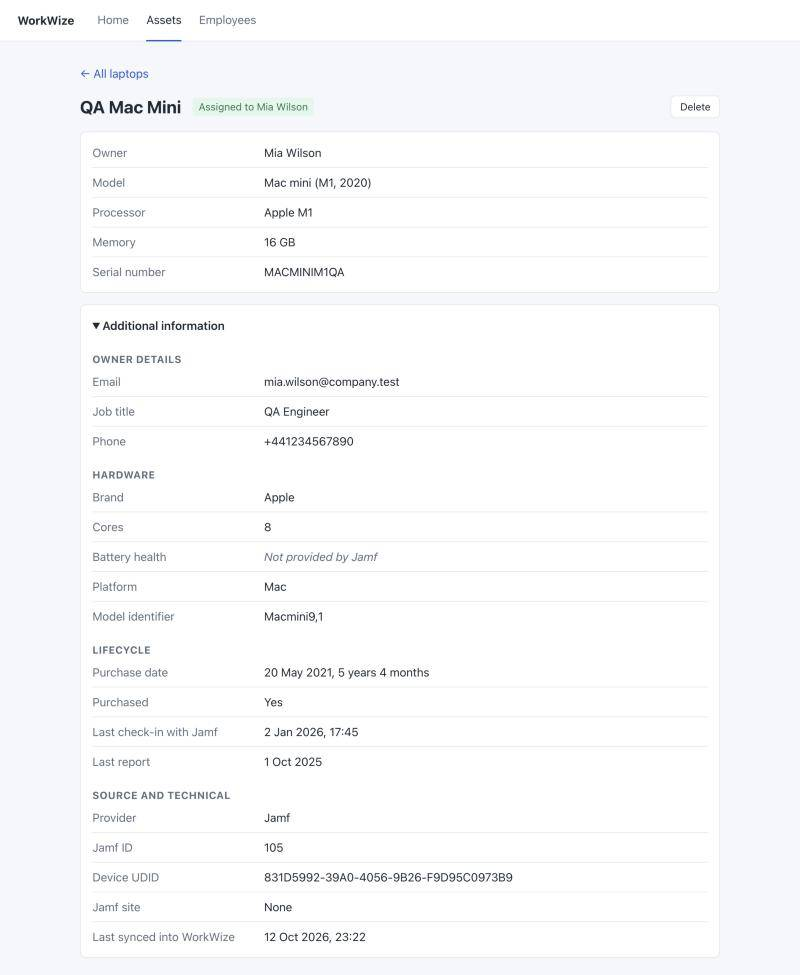
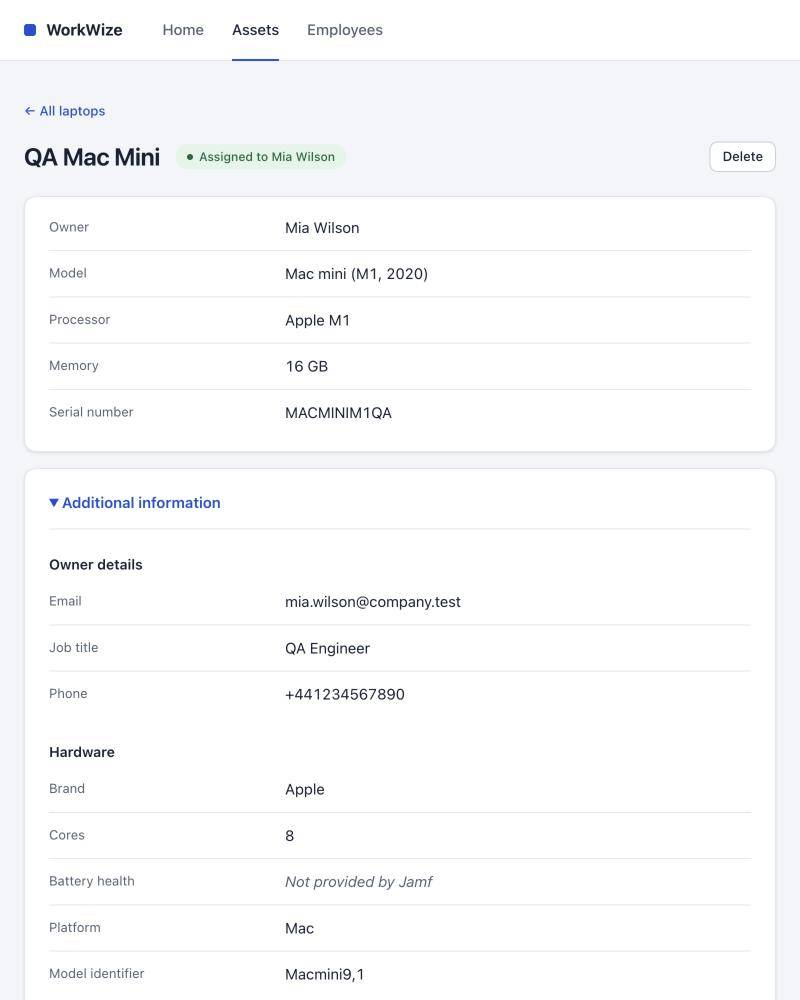
Redesign 6: retaken pictures, visual design in the decisions, redesign tests in TEST-LOG, numbers matched

diff --git a/docs/TEST-LOG.md b/docs/TEST-LOG.md
@@ -4,7 +4,7 @@
 
 ## In one minute
 
-- **What we tested:** the 32 agreed scenarios (T1–T32), 19 kinds of odd but realistic Jamf data, sizes from 1,000 to 25,000 laptops, and 6 kinds of failure (database or backend restarting mid-sync, database down, backend frozen or stopped), plus real out-of-memory crashes. Today: 133 backend and 101 website tests, all passing; 71 deliberate breaks, all caught.
+- **What we tested:** the 32 agreed scenarios (T1–T32), 19 kinds of odd but realistic Jamf data, sizes from 1,000 to 25,000 laptops, and 6 kinds of failure (database or backend restarting mid-sync, database down, backend frozen or stopped), plus real out-of-memory crashes. Today: 133 backend and 112 website tests, all passing; 77 deliberate breaks, all caught.
 - **What we found:** 16 problems (F1–F16; F16 in the final audit). The worst: one over-long name stopped every sync for everyone (F1); after any crash the app said "A sync is already running" for 5 minutes (F10); raw database errors reached the screen (F12). Data was never half-saved in any test, including real crashes.
 - **What was fixed:** 14 of the 16, each decided by Muhammad, each with a test, a deliberate break, and the original failing case re-run (before vs after in "Fixes: before and after"; live re-runs of all of them in "Final audit"). One catch while planning the fixes: the database treated "jose@…" and "josé@…" as the same person, which would have merged two people's laptops.
 - **What stays a limitation, and why:** F14 (the sync message lists every laptop after a very large change) and F15 (the sync runs out of memory above about 12,000 laptops; 5,000 sync in about 3 seconds). Both only matter far above a mid-size customer, and F15's fix belongs with a live Jamf connection. Also not built: paging and search in the lists (5,000 laptops load in about a second, but the page is about 380 screens long). Details in [IDEAS-AND-LIMITATIONS.md](IDEAS-AND-LIMITATIONS.md).
@@ -17,7 +17,7 @@ With the app running (`docker compose up`):
 
 ```bash
 docker compose exec backend php artisan test   # backend: 133 tests
-docker compose exec frontend npm test          # website: 101 tests
+docker compose exec frontend npm test          # website: 112 tests
 ```
 
 - Backend tests run against MySQL, in their own database (`workwize_test`), so they never touch the app's data. A safety check stops them if they're ever pointed at another database.
@@ -26,7 +26,7 @@ docker compose exec frontend npm test          # website: 101 tests
 
 ## How we check that a test can fail
 
-A test that has never failed proves little. For every rule we add, we switch the rule off on purpose ("deliberate break"), run the tests, confirm the right test fails, and put the rule back. So far 71 breaks, all caught (16 of them for the fixes after testing and the final audit, listed in "Fixes: before and after"). Examples: the "updated" count including our own timestamps, the delete warning for a person with laptops replaced by the short one, memory divided by 1000 instead of 1024, a lighter grey that fails the contrast check.
+A test that has never failed proves little. For every rule we add, we switch the rule off on purpose ("deliberate break"), run the tests, confirm the right test fails, and put the rule back. So far 77 breaks, all caught (16 of them for the fixes after testing and the final audit, listed in "Fixes: before and after"; 6 for the visual redesign, listed in "Visual redesign"). Examples: the "updated" count including our own timestamps, the delete warning for a person with laptops replaced by the short one, memory divided by 1000 instead of 1024, a lighter grey that fails the contrast check.
 
 ## Brief rules → tests
 
@@ -129,7 +129,7 @@ Real Jamf exports are messier than the 7-laptop mock. Each case below was put th
 | O18 | **Line breaks or tabs inside a name.** `Finance⏎Team⇥MacBook` | Stored; shown on one line | Stored exactly as sent. On screen, browsers show line breaks and tabs as spaces; not checked with a screenshot | Pass | Right (screen part not separately checked) | – | – |
 | O19 | **Jamf promises more laptops than it sends.** `totalCount` 10, 7 sent | Rejected as incomplete (correct by design, re-confirmed) | Rejected: "Jamf list is incomplete: expected 10 devices, got 7." Nothing changed | Pass | Right | – | – |
 
-**Emoji, right-to-left text and a name that looks like web code (O7–O9),** shown as plain text. The names are made up.
+**Emoji, right-to-left text and a name that looks like web code (O7–O9),** shown as plain text. The names are made up. *Taken before the visual redesign.*
 
 ![Emoji, right-to-left and web-code names shown as text](screenshots/odd-emoji-rtl-html-shown-as-text.jpg)
 
@@ -168,7 +168,7 @@ Real Jamf exports are messier than the 7-laptop mock. Each case below was put th
 
 **Where the limit is:** a sync through the website breaks at **about 12,000–13,000 laptops** (a Jamf file of about 15–16 MB), because the backend's **128 MB memory limit** runs out. The **30-second time limit is never reached** first: 12,000 laptops take about 6–8 seconds, so by time alone the limit would be around 50,000. The command line has the same 128 MB limit (not tested above 10,000). Below 12,000 everything works, so a mid-size customer with 1,000–5,000 laptops is well under it.
 
-**5,000 laptops.** The list loads in about a second; the sync message stays short.
+**5,000 laptops.** The list loads in about a second; the sync message stays short. *Taken before the visual redesign.*
 
 ![5,000 laptops](screenshots/scale-5000-laptops.jpg)
 
@@ -211,6 +211,21 @@ A fresh copy of the repo (all save points up to the test-log summary) in its own
 | F13 re-run live (backend frozen while the people page loads) | After 15 seconds: "This is taking longer than usual. Still waiting for WorkWize to answer."; the page loaded normally once unfrozen |
 | Docs against the app | Fixed: an older test name still said odd values "become empty" (renamed, and it now also checks that they're kept as sent; break caught); the README's R14 line now has the measured numbers; the odd-data, scale and resilience sections now say their results are as found on 13 Oct, with a pointer to the fixes. Every finding row is in the Findings table (F1–F16). Every test named in the traceability table exists |
 | New finding | **F16** (below): a very long owner name makes the status label run off the page and cover other laptops' names |
+
+## Visual redesign (16 Oct 2026)
+
+A visual change only, approved by Muhammad: wording, behaviour and statuses stayed the same, and every existing test stayed unchanged and passing. Five save points, each with both suites, a before/after screenshot and a deliberate break.
+
+| Check | Result | Deliberate break |
+|---|---|---|
+| New: every status badge and button passes WCAG AA, measured from the stylesheets (hover too) | Pass (9 tests) | A too-pale "No longer in Jamf" colour: caught |
+| New: the four statuses have four different colour pairs | Pass | Two statuses sharing a colour: caught |
+| Existing: Home's totals are links with real singular and plural | Pass | A total that wasn't a link: caught |
+| Existing: a very long status label can wrap (F16) | Pass | A label that couldn't wrap: caught |
+| Existing: the "couldn't read" explanation keeps the normal style (F16) | Pass | Its normal style removed: caught |
+| New: on phones, the ⓘ and Delete buttons in lists have a tap area of at least 44 × 44 px | Pass (2 tests); measured in a real browser at phone width: the buttons look the same (24×16 and 69×32), taps 21 px from the centre land, 25 px don't | A 30 px tap area: caught by both tests |
+
+**Design check:** [Impeccable](https://github.com/pbakaus/impeccable)'s detector found nothing before or after, on the website source and on the four live pages at desktop and phone width (it was first shown to flag a deliberately bad page). Its audit found the small tap areas (fixed above), a few hard-coded colours (replaced with the colour tokens) and no reduced-motion setting (added).
 
 ## Other things the tests cover
 
@@ -274,6 +289,8 @@ Each fix re-runs the original failing case. "Guided by" is the principle the fix
 | F16 | A status label with a 299-character owner name (final audit) | The label ran off the left edge of the laptop page and covered other laptops' names on the list; the ⓘ text next to "couldn't read" was grey italic | Measured in a real browser (the long name put into the page itself, no data changed): the label stays inside its row, 440 px wide, and doesn't touch the laptop name; normal labels still sit on one line. The ⓘ text has the normal style | Website test `longText` (2); browser measurement | Old style back: the label is 2,343 px wide and covers the name; the style test fails. Both caught | What the website shows must match the data; nothing hidden ([P4](PRINCIPLES.md#p4-the-data-must-stay-honest-what-the-website-shows-must-match-reality)) | Long status labels wrap (F16) |
 
 ### Before and after, on screen
+
+*Taken before the visual redesign (16 Oct 2026), so they show the old look; they are kept as the evidence of each fix. One exception: the F3, F7, F8 "after" picture was retaken with the new look.*
 
 **F2 + F12, database down.** Raw database errors became one plain message per place.
 

diff --git a/docs/HOW-WE-BUILT-THIS.md b/docs/HOW-WE-BUILT-THIS.md
@@ -36,6 +36,7 @@ flowchart LR
 4. **Build in tiers.** Tier 1 is the brief, Tier 2 the core improvements, Tier 3 polish, Tier 4 a stretch goal. Each tier was finished and tested before the next one started, so there was always a version I could hand in. Tiers 1 and 2 are built. Tiers 3 and 4 are designed but not built, because of time.
 5. **Test.** Every agreed scenario, odd data, scale and crashes. Testing found 16 problems, and I decided what to do about each one.
 6. **Show the thinking.** This page and the other docs.
+7. **A visual redesign.** Visual only: the wording, behaviour and statuses stayed the same, and every existing test still passes. I chose one of three directions ([DECISION-RECORDS.md](DECISION-RECORDS.md#visual-design)). [Impeccable](https://github.com/pbakaus/impeccable), an open-source design checker, was used as a design check in its lighter mode (kept out of the repo): its detector found nothing, and its audit pointed to tap areas that were too small on phones, which were fixed.
 
 ## Rules I set for using AI
 
@@ -52,12 +53,12 @@ flowchart LR
 
 | | |
 |---|---|
-| Save points | 86 at submission (73 before these documents were added) |
-| Automatic tests | 133 backend, 101 website |
-| Deliberate breaks | 71, all caught by a test |
-| Catches logged (build and testing) | 108: Claude Code 75 (31 of them its own mistakes), claude.ai 23, me 9, shared 1 |
+| Save points | 92 at submission (73 before these documents were added) |
+| Automatic tests | 133 backend, 112 website |
+| Deliberate breaks | 77, all caught by a test |
+| Catches logged | 127: Claude Code 93 (41 of them its own mistakes), claude.ai 23, me 10, shared 1 |
 
-The documentation step added a few more catches, recorded in the private build journal.
+Up to the end of testing it was 108 catches and 37 Claude Code mistakes; the rest came from the documentation and the redesign.
 
 Claude Code's number is probably high because it was closest to the code, and the tests caught many of its own slips. That's what the tests were for.
 
@@ -80,7 +81,7 @@ Claude Code's number is probably high because it was closest to the code, and th
 
 - **An audit before building (me).** I asked for a read-only check of the setup before any code was written. It found four problems, including a rule that could have silently hidden real code from the repo.
 
-The long-name catch, before and after the fix:
+The long-name catch, before and after the fix (taken before the visual redesign):
 
 | Before the fix | After |
 |---|---|
@@ -94,7 +95,7 @@ The long-name catch, before and after the fix:
   - two inaccurate wordings ("permanent" and "still has … in Jamf")
   - a description of the duplicate rule that contradicted the code
   - an instruction sent before a folder move had actually happened
-- **Claude Code: 37** during the build and testing. 31 were found by Claude Code itself or its own tests, 3 by claude.ai, and 3 are noted only in the build notes. Most were small and caught within the same step. Examples:
+- **Claude Code: 47.** 41 were found by Claude Code itself or its own tests, 3 by claude.ai, and 3 are noted only in the build notes. Most were small and caught within the same step. Examples:
   - tests that couldn't fail
   - checks run from the wrong folder
   - the same database ordering trap three times

diff --git a/docs/CHANGELOG.md b/docs/CHANGELOG.md
@@ -11,6 +11,11 @@ What was built, step by step. Newest at the top.
 - Commit: <hash>
 -->
 
+## 2026-10-16: Redesign 6: docs
+- Retook only the pictures whose screen changed (8, same file names, WorkWize's mock data); the testing-evidence pictures stay, marked "taken before the visual redesign". [DECISIONS](DECISIONS.md) has a row for the visual design (Muhammad's addition) and [DECISION-RECORDS](DECISION-RECORDS.md) a "Visual design" note with the three directions and his choice. [TEST-LOG](TEST-LOG.md) has a "Visual redesign" section. HOW-WE-BUILT-THIS says Impeccable was used as a design check, in its lighter mode. Numbers match the build journal: 133 + 112 tests, 77 deliberate breaks, 127 catches, 47 Claude Code mistakes, 92 save points at submission. A limitations row for "no dark mode".
+- Why: the docs must show the app as it is. [Our addition]
+- Commit: (this save point)
+
 ## 2026-10-16: Redesign 5: messages, states, dialog, tap areas
 - Messages, error boxes and the delete dialog use the colour tokens (no hard-coded colours left in the stylesheet); "Needs attention" is a neutral button with the same text (it filters an amber and a red status, so it shouldn't look like one of them); when pressed it turns blue. Less motion when the system asks for it. On phones, the ⓘ and Delete buttons in lists have a tap area of at least 44 × 44 px through an invisible layer; they look the same (measured in a real browser: 24×16 and 69×32 visible, taps 21 px from the centre still land, 25 px don't). New test: the tap-area rules (website 110 → 112). Deliberate break: a 30 px tap area, caught by both new tests.
 - Why: small tap targets were the main finding of the design audit, and the last hard-coded colours. Visual change only. [Our addition]

diff --git a/docs/DECISIONS.md b/docs/DECISIONS.md
@@ -87,6 +87,7 @@ a new translator. **[Required by brief]** · **Status: Built** (see the README, 
 | Home: an overview with the items that need attention and the last sync time (today Home shows the totals and Sync Now) | [P18](PRINCIPLES.md#p18-take-people-straight-to-the-problem-dont-make-them-search) | [Our addition] | Designed, not built (Tier 3; time) |
 | An ⓘ button next to each status that needs a person (in the list, on the laptop page and in the message), explaining what it means and what to do | [P11](PRINCIPLES.md#p11-give-context-and-instructions-not-just-warnings-or-refusals), [P15](PRINCIPLES.md#p15-context-everywhere-on-demand-the-info-symbol) | [Our addition] | Built |
 | An ⓘ button next to every other field | [P15](PRINCIPLES.md#p15-context-everywhere-on-demand-the-info-symbol) | [Our addition] | Designed, not built (Tier 3; time) |
+| Visual design ("calm ledger", after testing): one main blue; each status its own colour (green Assigned, amber To be collected, red No longer in Jamf, grey outline Owner removed in WorkWize); cards and badges; WCAG AA measured for every badge and button; tap areas of at least 44 px on phones. Wording, behaviour and statuses unchanged ([DECISION-RECORDS.md](DECISION-RECORDS.md#visual-design)) | [P5](PRINCIPLES.md#p5-a-status-should-lead-to-action), [P13](PRINCIPLES.md#p13-simple-on-the-surface-complexity-only-where-its-needed-the-right-amount-of-engineering), [P18](PRINCIPLES.md#p18-take-people-straight-to-the-problem-dont-make-them-search) | [Our addition] (Muhammad's) | Built |
 
 ## Decisions after testing
 

diff --git a/docs/DECISION-RECORDS.md b/docs/DECISION-RECORDS.md
@@ -244,6 +244,17 @@ I asked for a flag based on the industry standard. The research found Jamf's own
 **My choice:** B.
 > "If two need attention, straight click on the link that's given on the dashboard and it redirects you towards whichever page that attention is needed in, rather than you finding where the thing that needs attention is."
 
+### Visual design
+
+**Status:** Built (after testing) · [P5][p5] [P13][p13] [P18][p18]
+
+After testing, I asked for a visual redesign: wording, behaviour and statuses stay the same, and no Tier 3 features. Claude Code showed the screens and three directions:
+- A. Calm ledger: the same top bar, one main colour, white cards, a clear badge per status
+- B. Workspace: a left sidebar with icons and denser rows
+- C. Status stripe: a coloured header and each laptop as its own card with a coloured edge
+
+**My choice:** A, a clean modern business tool with one main colour. "To be collected" and "No longer in Jamf" had the same colour before; now every status has its own, so the ones that need a person stand out ([P5][p5]). Home keeps exactly what it showed: its overview with attention items is still decision 6.4, designed but not built ([P13][p13], [P18][p18]).
+
 ## How the decisions fit together
 
 The decisions were checked against each other before the build:

diff --git a/docs/IDEAS-AND-LIMITATIONS.md b/docs/IDEAS-AND-LIMITATIONS.md
@@ -26,6 +26,7 @@ Every trade-off accepted in [DECISION-RECORDS.md](DECISION-RECORDS.md) has a row
 | The "hasn't checked in" warning (designed, not built) is measured against the newest check-in in the list, not today, and stale laptops stay out of "Needs attention" | The mock data is from January; measured against today, every laptop would be stale on the first sync. An unused laptop is often fine (a spare, someone on holiday), so it's a warning, not a task (decision 6.2c) | Build it, and add a separate "worth checking" list |
 | A delete really removes the record and keeps no trace of what was deleted | Simplest way to make sure a re-sync can bring it back without clashes (quick approval 1) | An audit log of deletes: who, what, when |
 | The status labels say "Jamf" as fixed text ("No longer in Jamf", "Not provided by Jamf"); only the skip reasons use the tool's name | Jamf is the only tool today | Use the tool's name in the labels when a second tool is added |
+| No dark mode; the website uses the system font | A small internal tool; the visual redesign kept to one light look (Impeccable's audit noted it) | Add a dark palette from the same colour tokens |
 
 ## Improvement ideas
 | Idea | Who benefits | Effort |

diff --git a/README.md b/README.md
@@ -80,7 +80,7 @@ The seven features that are designed but not built, each with its decision and p
 
 ![Jamf sent a value WorkWize couldn't read](docs/screenshots/f3-f7-f8-after-couldnt-read-label.jpg)
 
-**When something breaks, the message is true and says what to do.** Before and after, from testing:
+**When something breaks, the message is true and says what to do.** Before and after, from testing (taken before the visual redesign):
 
 | Before | After |
 |---|---|
